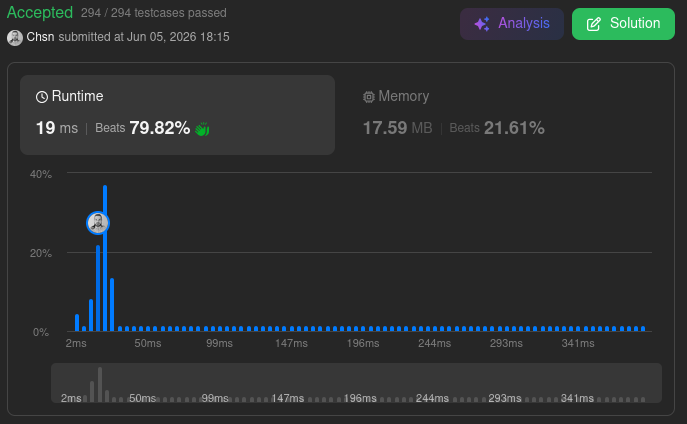
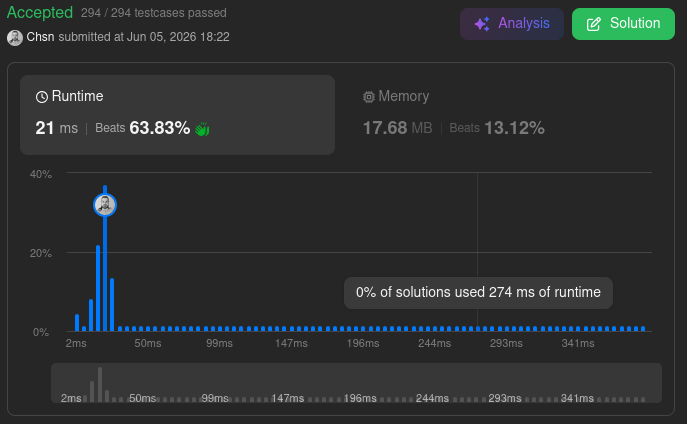
ksum

diff --git a/ksum/main.cpp b/ksum/main.cpp
@@ -4,15 +4,9 @@
 #include <iostream>
 class Solution {
 public:
-    void recur(std::vector<int>& nums, std::vector<int>& tested, int target, std::size_t start, std::size_t size, std::vector<std::vector<int>>& result)
+
+    void twoSum(std::vector<int>& nums, std::vector<int>& tested, int target, std::size_t start, std::vector<std::vector<int>>& result)
     {
-        if (size < 2 || tested.size() > size || start > nums.size())
-            return;
-        std::size_t numbersNeeded = size - tested.size();
-        if (nums.size() - start < numbersNeeded)
-            return;
-        if (tested.size() == size - 2)
-        {
             std::size_t i = start;
             std::size_t j = nums.size() - 1;
             long long selectedSum = 0;
@@ -39,9 +33,17 @@ public:
                 else
                     --j;
             }
+    }
+
+    void recur(std::vector<int>& nums, std::vector<int>& tested, int target, std::size_t start, std::size_t size, std::vector<std::vector<int>>& result)
+    {
+        if (tested.size() == size - 2)
+        {
+            twoSum(nums, tested, target, start, result);
         }
         else
         {
+            std::size_t numbersNeeded = size - tested.size();
             for (std::size_t i = start; i + numbersNeeded <= nums.size(); ++i)
             {
                 if (i > start && nums[i] == nums[i - 1])